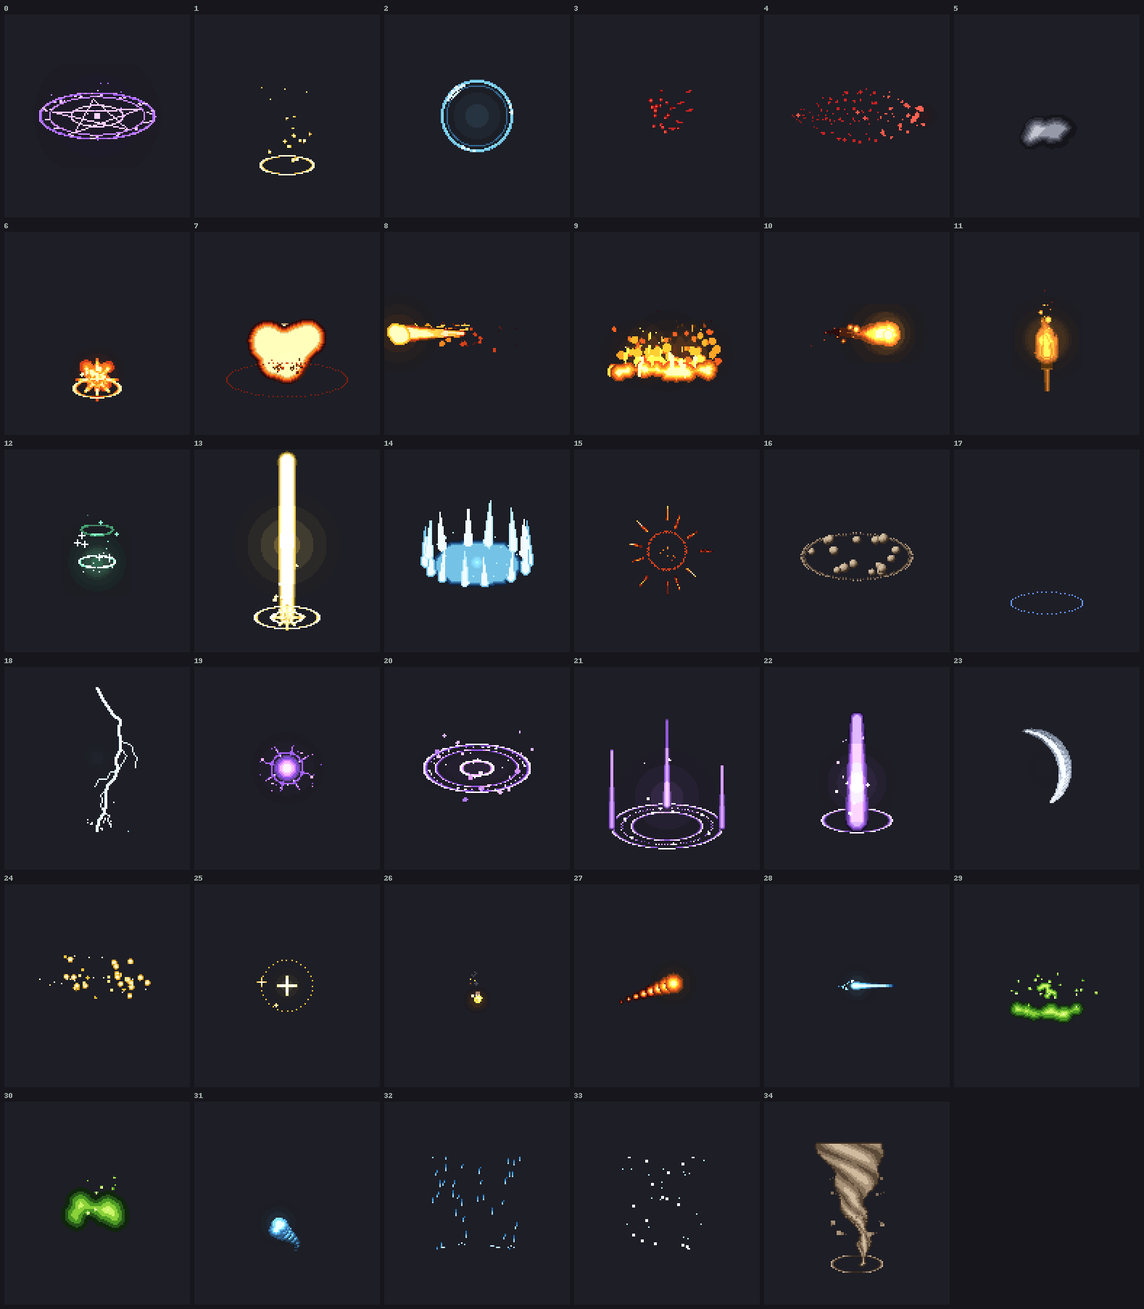
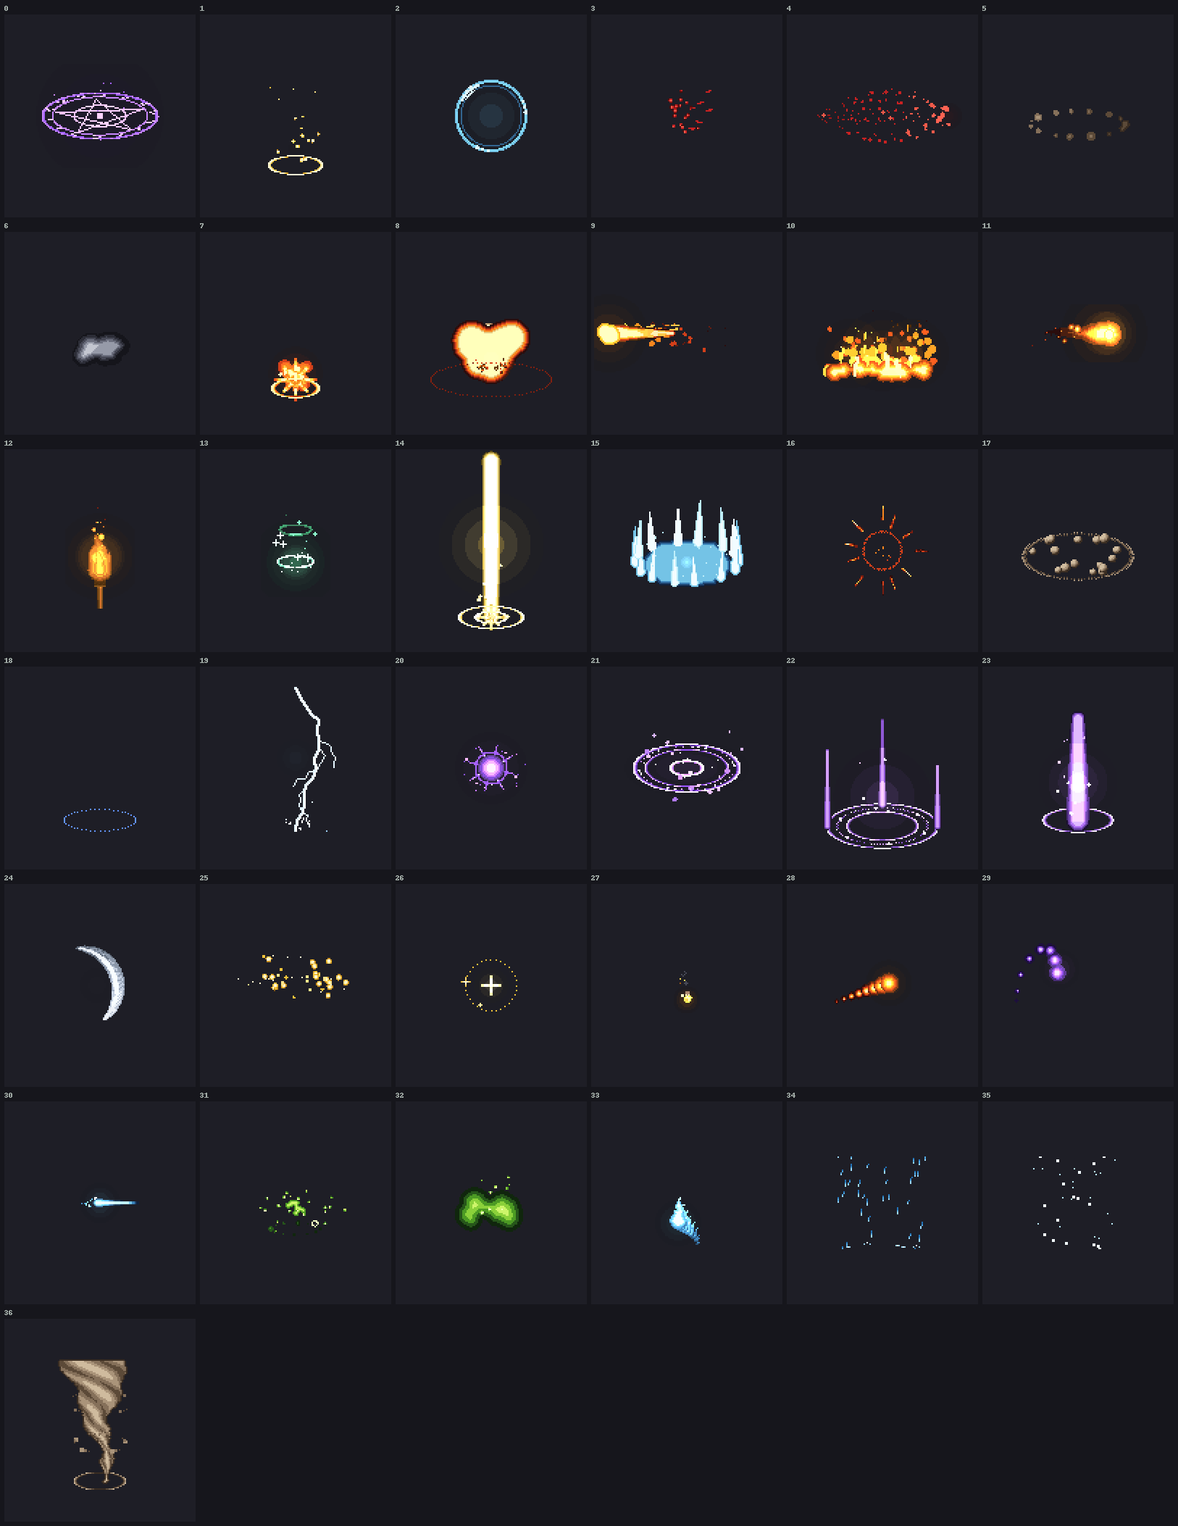
pixfx: curved paths and spin, ease lists, blob flame/ring modes, bubble/shard particles, style pass, palette roles; curve-orb and dust-ring recipes

diff --git a/pixfx/spec.py b/pixfx/spec.py
@@ -17,12 +17,13 @@ from .ramps import resolve
 from .kit import star, jagged
 
 EASE = {"linear": lambda p: p, "out": out_quart, "expo": out_expo, "in": in_quad, "smooth": smooth}
-DEFAULTS = {"name": "Custom effect", "about": "", "loop": False, "duration": 1.0, "fps": 12, "size": [96, 96], "palette": "fire", "options": {}, "tags": [], "layers": []}
+DEFAULTS = {"name": "Custom effect", "about": "", "loop": False, "duration": 1.0, "fps": 12, "size": [96, 96], "palette": "fire", "options": {}, "tags": [], "layers": [], "style": {}, "palettes": {}}
 ALLOWED_TOP = set(DEFAULTS) | {"id", "pivot"}
-COMMON = {"t": "time window [start, end] in 0..1 (default [0, 1]); the layer draws only inside it", "at": "[x, y] from the pivot, or [[x0,y0],[x1,y1]] to move",
+STYLE_KEYS = {"outline": "'auto' or '#rrggbb': 1 px outline around everything drawn", "rim": "[dx, dy] light direction: lit edge", "shadow": "[dx, dy] offset: a hard shadow in the darkest palette colour"}
+COMMON = {"t": "time window [start, end] in 0..1 (default [0, 1]); the layer draws only inside it", "at": "[x, y] from the pivot; [[x0,y0],[x1,y1]] to move on a line; three or more points = a smooth curve through them",
           "palette": "ramp name or hex list for this layer (default: the recipe palette; 'main' = the recipe palette, which -o palette= changes)",
           "color": "one fixed colour '#rrggbb' instead of a palette", "v": "ramp position 0..1 (dark..bright), number or [from, to] over the layer's life",
-          "ease": "linear | out | expo | in | smooth: how [from, to] values move", "hold": "true = keep drawing the end state after the window", "wobble": "[ax, ay, cycles]: the layer sways around its path (whole cycles close a loop): snaking wisps, swaying columns", "smear": "[length, taper]: a trail of fading, shrinking copies of the layer along its own path (length = fraction of the window, taper = size of the oldest copy 0..1). Sword smears, comet tails, wisp tails",
+          "ease": "linear | out | expo | in | smooth: how [from, to] values move; or a list, one name per key step: [\"out\", \"linear\", \"in\"]", "spin": "[radius, turns]: circles around its path (a spiral when it also moves)", "hold": "true = keep drawing the end state after the window", "wobble": "[ax, ay, cycles]: the layer sways around its path (whole cycles close a loop): snaking wisps, swaying columns", "smear": "[length, taper]: a trail of fading, shrinking copies of the layer along its own path (length = fraction of the window, taper = size of the oldest copy 0..1). Sword smears, comet tails, wisp tails",
           "erode": "(all layers except blob has its own) px eaten from the edge, animatable: the clean dissolve", "outline": "'#rrggbb' or 'auto' (darkest palette colour): a 1 px outline around the drawn layer", "rim": "[dx, dy] light direction, e.g. [-1, -1]: the edge facing the light takes a bright rim colour",
           "seed": "layers with the same number draw the same random shape (give it to the second layer when one body continues in another layer)"}
 SCHEMA = {
@@ -33,8 +34,8 @@ SCHEMA = {
     "particles": {"mode": "burst (all fly out from the window start) | stream (endless, loop-safe)", "count": "int", "area": "[w, h] spawn box", "angle": "[a0, a1] degrees, 0 = right, 90 = down, -90 = up",
                   "speed": "[lo, hi] px travelled over a particle's life", "life": "[lo, hi] fraction of the window (burst) or of the cycle (stream)", "cycles": "stream: repeats per loop (whole number)",
                   "stagger": "burst: spread the births over this fraction of the window", "gravity": "px of downward pull at end of life (negative = rises)", "sway": "px of side wobble",
-                  "size": "[start, end] px", "shape": "dot | streak | star", "streak": "streak length px", "shade": "flat | core", "travel": "ease of the flight: out | linear | in | expo", "cover": "[c0, c1] dither fade over life", "target": "[x, y] from the pivot: every particle travels from its spawn point to here instead of flying along `angle`", "curve": "px sideways bow of that path (with `target`), random per particle"},
-    "blob": {"count": "int discs merged into one body", "spread": "[w, h] px", "radius": "[lo, hi] px", "scale": "0..1+ animatable: grow and shrink the whole body", "rise": "px upward, animatable",
+                  "size": "[start, end] px", "shape": "dot | streak | star | bubble (hollow, pops) | shard (sliver)", "streak": "streak length px", "shade": "flat | core", "travel": "ease of the flight: out | linear | in | expo", "cover": "[c0, c1] dither fade over life", "target": "[x, y] from the pivot: every particle travels from its spawn point to here instead of flying along `angle`", "curve": "px sideways bow of that path (with `target`), random per particle"},
+    "blob": {"mode": "lump (default) | ring (puffs on the `spread` ellipse: ground dust, smoke rings; `drift` px outward, `stagger`) | flame (puffs up a swaying spine: `height`, `radius` = [base, tip-ish], `flicker`, `sway`, `cycles`, `jitter`)", "count": "int discs merged into one body", "height": "flame: px", "flicker": "flame: reshapes per window (default 5)", "sway": "flame: px", "cycles": "flame: sways per window (whole)", "jitter": "flame: px", "drift": "ring: px outward, animatable", "stagger": "0..0.9: puffs start growing at different moments", "spread": "[w, h] px", "radius": "[lo, hi] px", "scale": "0..1+ animatable: grow and shrink the whole body", "rise": "px upward, animatable",
              "depth": "band width px (bigger = bands further in)", "lit": "[dx, dy] direction of the light, e.g. [-1, -1] = top-left (sphere-like shading)", "lit_strength": "0..1, default 0.3", "bias": "dark(-)..bright(+) animatable: cool a fireball with [0.2, -0.6]", "erode": "px eaten from the edge, animatable ([0, 10] dissolves it; better than cover)", "cover": "0..1 dither"},
     "bolt": {"from": "[x, y]", "to": "[x, y]", "width": "px, animatable", "grow": "fraction of the window spent striking from `from` to `to`", "flicker": "reshapes per window (default 6)",
              "rough": "0.1..0.5 zigzag (default 0.28)", "depth": "subdivisions (default 4)", "branches": "int side forks", "glow": "radius of the light along the bolt", "rim": "'#rrggbb' lighter edge under the stroke (cracks on dark ground)"},
@@ -58,25 +59,41 @@ def sub(x, o):
     return x
 
 
+_SEG = [None]                                                                          # per-segment ease names of the layer being drawn (ease given as a list)
+
+
 def val(x, p, t=0.0):
     if isinstance(x, dict):
         w = (list(x["wave"]) + [1, 0])[:4]; return lerp(w[0], w[1], 0.5 + 0.5 * math.sin(TAU * (t * w[2] + w[3])))
     if isinstance(x, (list, tuple)):                                                   # [a, b] or [a, b, c, ...]: evenly spaced keys over the window
-        n = len(x) - 1; pos = clamp(p) * n; i = min(int(pos), n - 1); return lerp(x[i], x[i + 1], pos - i)
+        n = len(x) - 1; pos = clamp(p) * n; i = min(int(pos), n - 1); u = pos - i; se = _SEG[0]
+        if se: u = EASE[se[min(i, len(se) - 1)]](u)
+        return lerp(x[i], x[i + 1], u)
     return x
 
 
 def pt(x, p):
-    return (lerp(x[0][0], x[1][0], p), lerp(x[0][1], x[1][1], p)) if isinstance(x[0], (list, tuple)) else (x[0], x[1])
+    """a point, or a path: two points = a line, three or more = a smooth curve through them (Catmull-Rom)"""
+    if not isinstance(x[0], (list, tuple)): return (x[0], x[1])
+    if len(x) == 2: return (lerp(x[0][0], x[1][0], p), lerp(x[0][1], x[1][1], p))
+    n = len(x) - 1; pos = clamp(p) * n; i = min(int(pos), n - 1); u = pos - i; P0, P1, P2, P3 = x[max(i - 1, 0)], x[i], x[i + 1], x[min(i + 2, n)]
+    return tuple(0.5 * (2 * P1[k] + (-P0[k] + P2[k]) * u + (2 * P0[k] - 5 * P1[k] + 4 * P2[k] - P3[k]) * u * u + (-P0[k] + 3 * P1[k] - 3 * P2[k] + P3[k]) * u ** 3) for k in (0, 1))
+
+
+def _efn(d):
+    e = d.get("ease", "linear"); return EASE["linear"] if isinstance(e, list) else EASE[e]
 
 
 def rng2(x, default):
     x = default if x is None else x; return (x, x) if not isinstance(x, (list, tuple)) else x
 
 
-def _ramp(d, main):
+def _ramp(d, main, roles=None):
     if "color" in d: return [hex2rgb(d["color"])]
     pal = d.get("palette")
+    if isinstance(pal, str) and pal.startswith("@"):                                   # a role defined in the recipe's "palettes"
+        if not roles or pal[1:] not in roles: raise KeyError(f"palette '{pal}' is not defined in the recipe's palettes ({', '.join(roles or {}) or 'none'})")
+        pal = roles[pal[1:]]
     return main if pal in (None, "main") else resolve(pal, "fire")
 
 
@@ -132,6 +149,12 @@ def L_particles(f, d, c):
             arm = int(size / 2); f.put(x, y, c.ramp[-1] if len(c.ramp) > 1 else col)
             for k in range(1, arm + 1):
                 for dx, dy in ((k, 0), (-k, 0), (0, k), (0, -k)): f.put(x + dx, y + dy, col)
+        elif shape == "bubble":                                                        # a hollow ring that grows, then pops into four dots
+            if age < 0.8: f.ring(x, y, max(size / 2, 1.2), 1.0, [col])
+            else:
+                for dx, dy in ((1, 1), (-1, 1), (1, -1), (-1, -1)): f.put(x + dx * size * 0.7, y + dy * size * 0.7, col)
+        elif shape == "shard":                                                         # a tapered sliver pointing along its flight
+            f.tapered(x, y, x + math.cos(ang) * size * 1.6, y + math.sin(ang) * size * 1.6, max(size * 0.6, 1), 0.5, [col])
         elif shape == "streak": f.tapered(x, y, x - math.cos(ang) * streak * (1 - age * 0.7), y - math.sin(ang) * streak * (1 - age * 0.7), max(size, 1), 1, [col], cover=cv)
         elif size < 1.6: f.dput(x, y, col, cv)
         elif d.get("shade", "flat") == "core": f.disc(x, y, size / 2, c.ramp, mode="core", cover=cv, bias=vv - 0.5)
@@ -139,10 +162,21 @@ def L_particles(f, d, c):
 
 
 def L_blob(f, d, c):
-    n = int(d.get("count", 8)); sx, sy = rng2(d.get("spread"), [10, 10]); lo, hi = rng2(d.get("radius"), [4, 8]); sc = val(d.get("scale", 1), c.e) * c.sc; rise = val(d.get("rise", 0), c.e); m = f.mask(); r = c.rng
-    for i in range(n):
-        dx, dy, rr = r.u(-1, 1), r.u(-1, 1), r.u(lo, hi)
-        disc_mask(m, c.ox + dx * sx * sc, c.oy + dy * sy * sc - rise, rr * sc)
+    n = int(d.get("count", 8)); mode = d.get("mode", "lump"); sx, sy = rng2(d.get("spread"), [10, 10]); lo, hi = rng2(d.get("radius"), [4, 8]); sc = val(d.get("scale", 1), c.e) * c.sc
+    rise = val(d.get("rise", 0), c.e); stag = clamp(d.get("stagger", 0.3 if mode == "ring" else 0), 0, 0.9); m = f.mask(); r = c.rng
+    if mode == "flame":                                                                # puffs stacked up a swaying spine, shrinking to a tip; reshaped `flicker` times per window
+        H = val(d.get("height", 30), c.e) * c.sc; fl = max(1, int(d.get("flicker", 5))); rr = Rng(c.seed * 13 + int(c.p * fl) % fl); sw = d.get("sway", 3); cyc = d.get("cycles", 1)
+        for i in range(n):
+            u = (i + 0.5) / n; x = c.ox + sw * u * math.sin(TAU * c.p * cyc + rr.u(0, 0.6)) + rr.u(-1, 1) * d.get("jitter", 1.2) * u; rad = max(0.0, lerp(hi, 0.8, u ** 0.8) * sc * rr.u(0.85, 1.1))
+            disc_mask(m, x, c.oy - rise - u * H, rad)
+    else:
+        for i in range(n):
+            dx, dy, rr = r.u(-1, 1), r.u(-1, 1), r.u(lo, hi); dl = r.u(0, stag) if stag > 0 else 0.0
+            s_i = sc * (clamp((c.e - dl) / (1 - dl)) if stag > 0 else 1.0)              # stagger: each puff starts growing at its own moment
+            if mode == "ring":                                                         # puffs on an ellipse (ground dust, smoke rings), each drifting outward by `drift` px
+                a = TAU * (i + dx * 0.2) / n; dr = val(d.get("drift", 0), c.e)
+                disc_mask(m, c.ox + math.cos(a) * (sx + dr), c.oy + math.sin(a) * (sy + dr * sy / max(sx, 1)) - rise, rr * s_i)
+            else: disc_mask(m, c.ox + dx * sx * sc, c.oy + dy * sy * sc - rise, rr * sc)
     er = val(d.get("erode", 0), c.e)
     if er > 0 and m.any():                                                             # eat the body away from its edge: a clean, banded dissolve
         from scipy.ndimage import distance_transform_edt
@@ -237,6 +271,8 @@ def validate(spec):
     for k in spec:
         if k not in ALLOWED_TOP: raise ValueError(f"recipe key '{k}' is unknown" + _near(k, ALLOWED_TOP))
     if not spec["layers"]: raise ValueError("a recipe needs at least one layer")
+    for k in spec.get("style", {}):
+        if k not in STYLE_KEYS: raise ValueError(f"style key '{k}' is unknown" + _near(k, STYLE_KEYS) + f". Keys: {', '.join(STYLE_KEYS)}")
     for i, d in enumerate(spec["layers"]):
         ty = d.get("type")
         if ty not in LAYERS: raise ValueError(f"layer {i}: type '{ty}' is unknown" + _near(str(ty), LAYERS) + f". Types: {', '.join(LAYERS)}")
@@ -245,7 +281,8 @@ def validate(spec):
             if k not in ok: raise ValueError(f"layer {i} ({ty}): key '{k}' is unknown" + _near(k, ok) + f". Keys: {', '.join(sorted(ok))}")
         t = d.get("t", [0, 1])
         if not (isinstance(t, list) and len(t) == 2 and 0 <= t[0] <= t[1] <= 1): raise ValueError(f"layer {i} ({ty}): t must be [start, end] with 0 <= start <= end <= 1, got {t}")
-        if d.get("ease", "linear") not in EASE: raise ValueError(f"layer {i} ({ty}): ease must be one of {', '.join(EASE)}")
+        es = d.get("ease", "linear")
+        if any(x not in EASE for x in (es if isinstance(es, list) else [es])): raise ValueError(f"layer {i} ({ty}): ease must be one of {', '.join(EASE)} (or a list of them, one per key step)")
 
 
 def _near(k, pool):
@@ -253,18 +290,19 @@ def _near(k, pool):
 
 
 def _one(spec, g, d, i, t, px, py, main, o, sc, vs):
-    t0, t1 = d.get("t", [0, 1]); p = seg(t, t0, t1); e = EASE[d.get("ease", "linear")](p); ox, oy = pt(d.get("at", [0, 0]), e); wob = d.get("wobble")
+    t0, t1 = d.get("t", [0, 1]); p = seg(t, t0, t1); _SEG[0] = d["ease"] if isinstance(d.get("ease"), list) else None; e = _efn(d)(p); ox, oy = pt(d.get("at", [0, 0]), e); wob = d.get("wobble")
+    if d.get("spin"): ox += d["spin"][0] * math.cos(TAU * d["spin"][1] * p); oy += d["spin"][0] * math.sin(TAU * d["spin"][1] * p)
     if wob: ox += wob[0] * math.sin(TAU * (t * wob[2])); oy += wob[1] * math.sin(TAU * (t * wob[2] + 0.25))
     vv = d.get("v")
-    c = SimpleNamespace(f=g, t=t, p=p, e=e, px0=px, py0=py, ox=px + ox, oy=py + oy, ramp=_ramp(d, main), seed=int(o.seed) * 131 + int(d.get("seed", i)) * 17, rng=None, sc=sc,
+    c = SimpleNamespace(f=g, t=t, p=p, e=e, px0=px, py0=py, ox=px + ox, oy=py + oy, ramp=_ramp(d, main, spec.get("palettes")), seed=int(o.seed) * 131 + int(d.get("seed", i)) * 17, rng=None, sc=sc,
                         v=lambda default, vv=vv, e=e: val(default if vv is None else vv, e) + vs)
     c.rng = Rng(c.seed); LAYERS[d["type"]](g, d, c)
 
 
-def _post(f, g, d, main, e):
+def _post(f, g, d, main, e, roles=None):
     """erode / outline / rim on what one layer drew (into the scratch frame g), then lay it on the real frame"""
     from scipy.ndimage import distance_transform_edt, binary_dilation
-    m = g.a > 0; er = val(d.get("erode", 0), e) if d["type"] != "blob" else 0; ramp = _ramp(d, main)
+    m = g.a > 0; er = val(d.get("erode", 0), e) if d["type"] != "blob" else 0; ramp = _ramp(d, main, roles)
     if er > 0 and m.any():
         m = m & (distance_transform_edt(np.pad(m, 1))[1:-1, 1:-1] > er); g.a[~m] = 0
     if d.get("rim"):
@@ -272,6 +310,19 @@ def _post(f, g, d, main, e):
     if d.get("outline"):
         oc = ramp[0] if d["outline"] == "auto" else hex2rgb(d["outline"]); ol = binary_dilation(m) & ~m; g.rgb[ol] = oc; g.a[ol] = 255
     mk = g.a > 0; f.rgb[mk] = g.rgb[mk]; f.a[mk] = 255; f.light += g.light
+
+
+def _style(f, st, main):
+    """whole-effect treatment after every layer: shadow, outline, rim (all from the pixels that were drawn, glow excluded)"""
+    from scipy.ndimage import binary_dilation
+    m = f.a > 0
+    if not m.any(): return
+    if st.get("shadow"):
+        dx, dy = st["shadow"]; sh = np.roll(m, (int(dy), int(dx)), (0, 1)) & ~m; f.rgb[sh] = main[0]; f.a[sh] = 255
+    if st.get("outline"):
+        oc = main[0] if st["outline"] == "auto" else hex2rgb(st["outline"]); ol = binary_dilation(m) & ~m; f.rgb[ol] = oc; f.a[ol] = 255
+    if st.get("rim"):
+        dx, dy = st["rim"]; rm = m & ~np.roll(m, (-int(np.sign(dy)), -int(np.sign(dx))), (0, 1)); f.rgb[rm] = main[-2] if len(main) > 2 else main[-1]
 
 
 def draw_spec(spec, f, t, o):
@@ -287,9 +338,10 @@ def draw_spec(spec, f, t, o):
                     dt = k / S * sm[0] * (t1 - t0); tk = (t - dt) % 1.0 if spec["loop"] else t - dt
                 if tk < t0 or (tk > t1 and not d.get("hold")): continue
                 _one(spec, g, d, i, tk, px, py, main, o, 1 - (1 - sm[1]) * k / S if k else 1.0, -0.45 * k / S if k else 0.0)
-            if post: _post(f, g, d, main, EASE[d.get("ease", "linear")](seg(t, t0, t1)))
+            if post: _post(f, g, d, main, _efn(d)(seg(t, t0, t1)), spec.get("palettes"))
         except (TypeError, KeyError, IndexError, ValueError, ZeroDivisionError) as ex:
             raise ValueError(f"layer {i} ({d.get('type')}): {type(ex).__name__}: {ex}") from None
+    if spec.get("style"): _style(f, spec["style"], main)
 
 
 def load(src):
@@ -309,7 +361,8 @@ def load(src):
 
 def schema_text(ty=None):
     out = ["Recipe (JSON): " + ", ".join(f"{k}" for k in sorted(ALLOWED_TOP)), "  id 'category/name', name, about, tags[], loop true|false, duration s, fps, size [w,h], pivot [x,y] (default centre),",
-           "  palette (name or hex list), options {name: default} (use as \"$name\" in any value), layers [ ... ]", "", "Keys every layer takes:"]
+           "  palette (name or hex list), options {name: default} (use as \"$name\" in any value), layers [ ... ],",
+           "  palettes {role: name or hex list} (a layer says \"palette\": \"@role\"), style {" + "; ".join(f"{k}: {v}" for k, v in STYLE_KEYS.items()) + "}", "", "Keys every layer takes:"]
     out += [f"  {k:8s} {v}" for k, v in COMMON.items()] + [""]
     for name in ([ty] if ty else LAYERS):
         if name not in LAYERS: raise ValueError(f"unknown layer type '{name}'. Types: {', '.join(LAYERS)}")

diff --git a/HANDOUT.md b/HANDOUT.md
@@ -208,6 +208,8 @@ Turn the description into layers (each line is one layer type):
 | a sword swoosh | `arc` (a circle only: no `squash`) |
 | a tornado, whirlwind, pillar of swirling stripes | `funnel` (`turns` whole for loops, `lean` to sway) |
 | wisps that fly from A to B, energy sucked into a portal | `particles` with `target` (and `curve` to bow them) |
+| a projectile on a curve, a spiral, a homing swoop | `at` with 3 or more points `[[x,y],[x,y],[x,y],...]` (a smooth curve), `spin: [radius, turns]` |
+| a flame silhouette, a ground dust ring, a puddle, bubbles | `blob` `mode: flame` / `mode: ring` (`drift`, `stagger`); `particles` `shape: bubble` (pops), `shard` |
 | a comet tail, a sword smear, a wisp's trail | `smear: [length, taper]` on any moving layer (a fading, shrinking trail of copies of itself) |
 | a clean outline, a lit edge, a dissolve for ring/beam/particles | `outline: "auto"`, `rim: [-1, -1]`, `erode: [0, 0, 6]` on any layer |
 | anything that snakes or sways along its path | `wobble: [ax, ay, whole_cycles]` on the layer |
@@ -221,6 +223,7 @@ Rules that save rounds:
 - A value can have more than two keys: `"size": [0, 20, 0]` grows then shrinks in ONE layer (no second layer needed). `"$reach*0.5"` scales an option. `blob` takes `lit: [-1, -1]` for sphere-like shading, `bolt` takes `rim: "#hex"` (cracks on dark ground), `beam` takes `shade: flat` (no stripes), `blob` takes `erode: [0, 0, 16]` (the body is eaten from its edge: the clean way to dissolve; avoid `cover`), `glow` and `rays` take `squash` (lying on the floor), `particles` take `shape: star` (twinkles).
 - Options make a recipe reusable: `"options": {"radius": 24}` and `"radius": "$radius"` inside; the user then runs `-o radius=40`. `-o palette=NAME` recolours the whole thing.
 - `python gizpix.py pixfx check my.json --report` prints numbers and FLAG lines (mesh dithering, flat colour, lone pixels, empty frames, motion pops) with the fix for each; run it after every render, then still LOOK at the contact sheet. A motion pop on a hit that lands after a flight is intended.
+- `ease` can be a list, one name per key step: `"size": [0, 20, 0], "ease": ["out", "in"]`. A recipe can say `"style": {"outline": "auto", "rim": [-1, -1], "shadow": [1, 1]}` for a consistent drawn look over the whole effect, and `"palettes": {"hot": "fire", "soot": "smoke"}` with `"palette": "@soot"` per layer.
 - `beam` is drawn as one distance field: `core: 0.6` widens the bright centre, no second thin beam needed. `funnel` takes `profile`, `bend`, `ripple` (keys bottom to top) for a curved column. `arc` uses `tail` (not `trail`).
 - Mistakes come back as one line naming the layer, the wrong key and the closest right one (exit 2).
 - Honest limit: layers draw clean, readable game-sprite effects, not hand-painted detail. Judge `_contact.png` as you would any art, change numbers (counts, sizes, windows, bias), render again; two or three rounds is normal.

diff --git a/README.md b/README.md
@@ -114,7 +114,7 @@ Run `python gizpix.py list` for the live list; `python gizpix.py help TOOL` for 
 | **rig** | `rig_walk2`, `warp_layer`, `xform`: code-driven walks and moving a layer with the base |
 | **ui** | `python gizpix.py ui`: the local web interface for the four jobs above (not a separate tool; it runs the same commands) |
 | **draw** | `pixdraw`: buildings (house, cottage, inn, tower, round tower, keep, stall), three views (`iso`, `top`, `side`), five JSON styles, scenes with trees, fences, paths; `extract-style` makes a starting style from your own sprites |
-| **effects** | `pixfx`: 34 ready effects (torch, fireball, explosions, hits, lightning, ice, heal, magic circle, shields, portals, clouds, rain, snow...) and a recipe language: describe your own effect as a JSON file of layers (glow, ring, particles, blob, bolt, beam...); 22 palettes or your own; seeds; loops that close and one-shots that end empty; GIF, sprite sheet and JSON; `pixfx check` verifies them |
+| **effects** | `pixfx`: 37 ready effects (torch, fireball, explosions, hits, lightning, ice, heal, magic circle, shields, portals, clouds, rain, snow...) and a recipe language: describe your own effect as a JSON file of layers (glow, ring, particles, blob, bolt, beam...); 22 palettes or your own; seeds; loops that close and one-shots that end empty; GIF, sprite sheet and JSON; `pixfx check` verifies them |
 
 Every tool answers `-h`, prints one-line errors on bad input and exits 2 for usage problems.
 

diff --git a/CHANGELOG.md b/CHANGELOG.md
@@ -1,6 +1,7 @@
 # Changelog
 
 ## 0.2.0
+- Recipe language: curved paths (`at` with 3+ points) and `spin`, per-step `ease` lists, `blob` modes `flame` and `ring` (`drift`, `stagger`), particle shapes `bubble` and `shard`, a whole-effect `style` pass (outline, rim, shadow) and palette roles (`"@role"`). New recipes: curving orb, dust ring; soul wisp (a real flame silhouette) and acid splash (flat puddle, popping bubbles) redrawn.
 - Recipe language: `smear` (a fading, shrinking trail of any moving layer), `outline`/`rim`/`erode` on every layer, `beam` drawn as one distance field (`core`), `funnel` `profile`/`bend`/`ripple`; `arc` `trail` renamed `tail`. `pixfx check --report`: mesh dithering, flat colour, lone pixels, empty frames, motion pops, with a fix per flag. New recipe: comet; tornado, soul wisp, vampire drain and smite redrawn.
 - Recipe language: `funnel` layer (swirling column), particle `target` + `curve` (fly from a spawn area to a point), layer `wobble` (snaking, swaying). Tornado, soul wisp, vampire drain and portal redrawn with them; `pixfx palettes` lists the palette names.
 - Recipe language: `blob` `erode` (dissolve from the edge), `glow`/`rays` `squash`, particle `shape: star`. Smoke puff redrawn with them.
